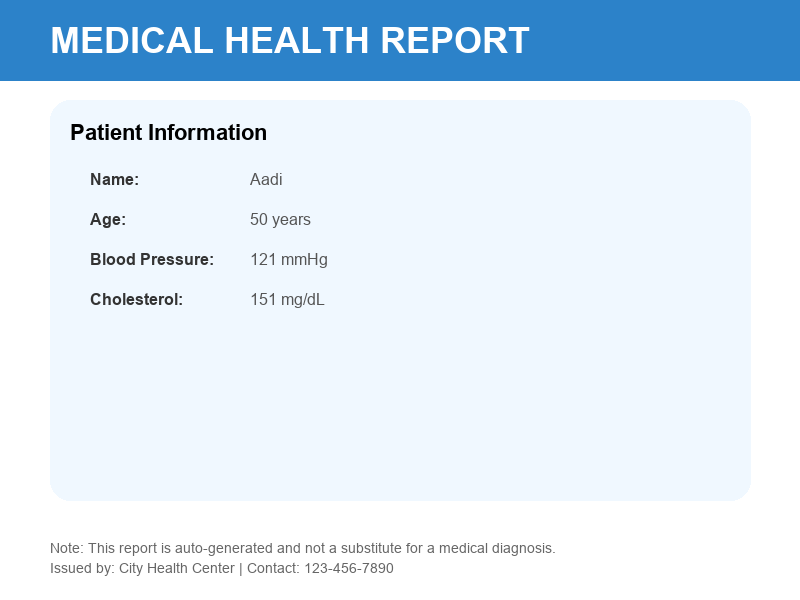
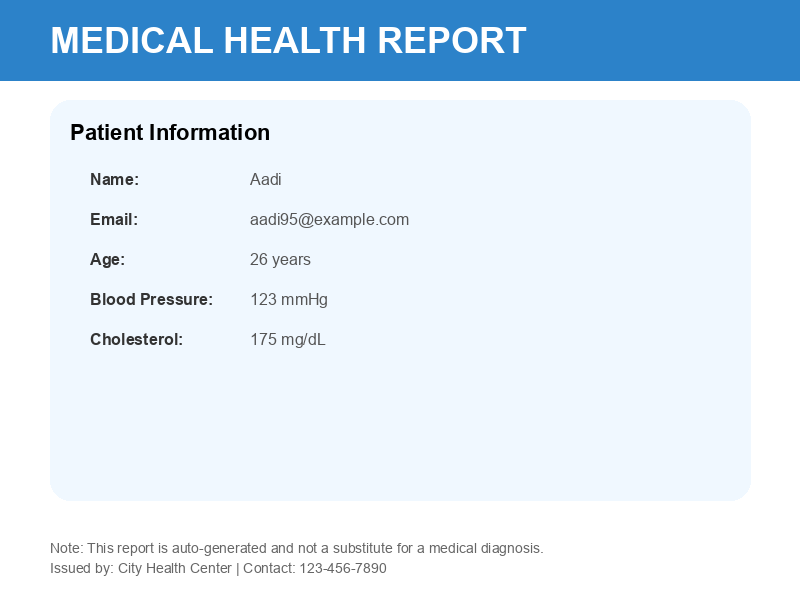
added email in reports

diff --git a/prediction/imRepGen/repGen.py b/prediction/imRepGen/repGen.py
@@ -11,6 +11,7 @@ def load_csv_data(filename="health_data.csv"):
         for row in reader:
             data.append({
                 "Name": row["Name"],
+                "Email": row["Email"],
                 "Age": int(row["Age"]),
                 "BloodPressure": int(row["BloodPressure"]),
                 "Cholesterol": int(row["Cholesterol"]),
@@ -58,9 +59,10 @@ def create_health_report_image(person, output_dir="reports"):
     draw.text((margin + 20, section_top + 20), "Patient Information", font=section_font, fill="#000000")
 
     # Patient details
-    labels = ["Name", "Age", "Blood Pressure", "Cholesterol"]
+    labels = ["Name", "Email", "Age", "Blood Pressure", "Cholesterol"]
     values = [
         person["Name"],
+        person["Email"],
         f"{person['Age']} years",
         f"{person['BloodPressure']} mmHg",
         f"{person['Cholesterol']} mg/dL"
@@ -89,7 +91,7 @@ def create_health_report_image(person, output_dir="reports"):
 
 # Main function
 def generate_reports():
-    data = load_csv_data("health_data.csv")
+    data = load_csv_data("csvGenerator/health_data.csv")
     for person in data:
         create_health_report_image(person)
 

diff --git a/prediction/imRepGen/csvGenerator/CsvGen.py b/prediction/imRepGen/csvGenerator/CsvGen.py
@@ -11,15 +11,21 @@ def generate_random_data():
     cholesterol = random.randint(150, 300)
     return age, blood_pressure, cholesterol
 
+# Generate email address
+def generate_email(name):
+    domains = ["example.com", "healthcare.org", "mail.com", "hospital.net"]
+    return f"{name.lower()}{random.randint(10, 99)}@{random.choice(domains)}"
+
 # Create CSV file
 def create_csv_file(filename="health_data.csv"):
     with open(filename, mode='w', newline='') as file:
         writer = csv.writer(file)
-        writer.writerow(["Name", "Age", "BloodPressure", "Cholesterol"])
+        writer.writerow(["Name", "Email", "Age", "BloodPressure", "Cholesterol"])
 
         for name in names:
+            email = generate_email(name)
             age, bp, cholesterol = generate_random_data()
-            writer.writerow([name, age, bp, cholesterol])
+            writer.writerow([name, email, age, bp, cholesterol])
 
     print(f"CSV file '{filename}' created successfully.")
 
